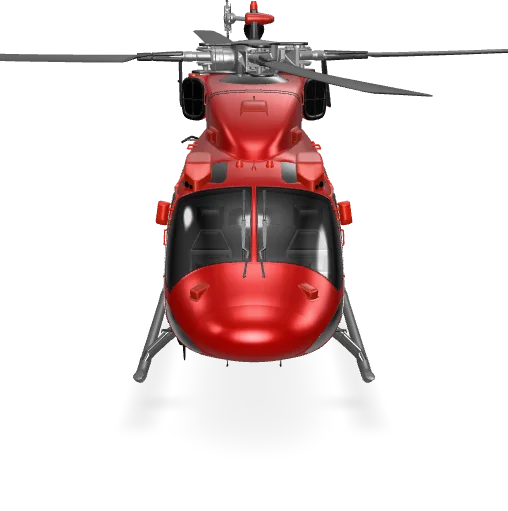
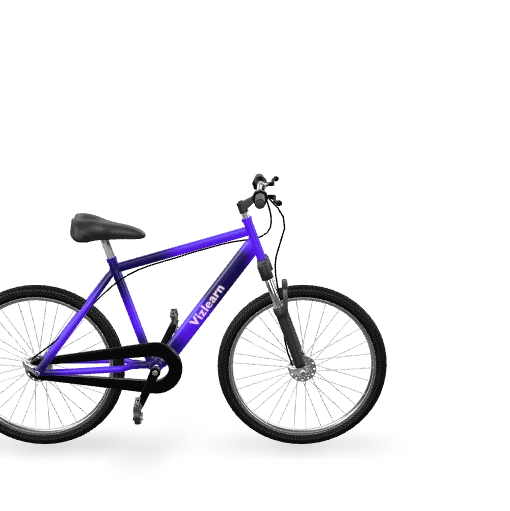
Add files via upload

Changed region(s): [[0.0, 0.0, 1.0, 0.91]]

diff --git a/index.html b/index.html
@@ -9,7 +9,7 @@
   </head>
   <body>
     <!-- <model-viewer> HTML element -->
-    <model-viewer src="Helicopter2.glb" ar ar-modes="scene-viewer webxr quick-look" camera-controls tone-mapping="neutral" poster="poster.webp" shadow-intensity="0.66" environment-image="legacy" exposure="1.32" shadow-softness="1" autoplay>
+    <model-viewer src="Cycle.glb" ar ar-modes="scene-viewer webxr quick-look" camera-controls tone-mapping="neutral" poster="poster.webp" shadow-intensity="1">
       <div class="progress-bar hide" slot="progress-bar">
           <div class="update-bar"></div>
       </div>